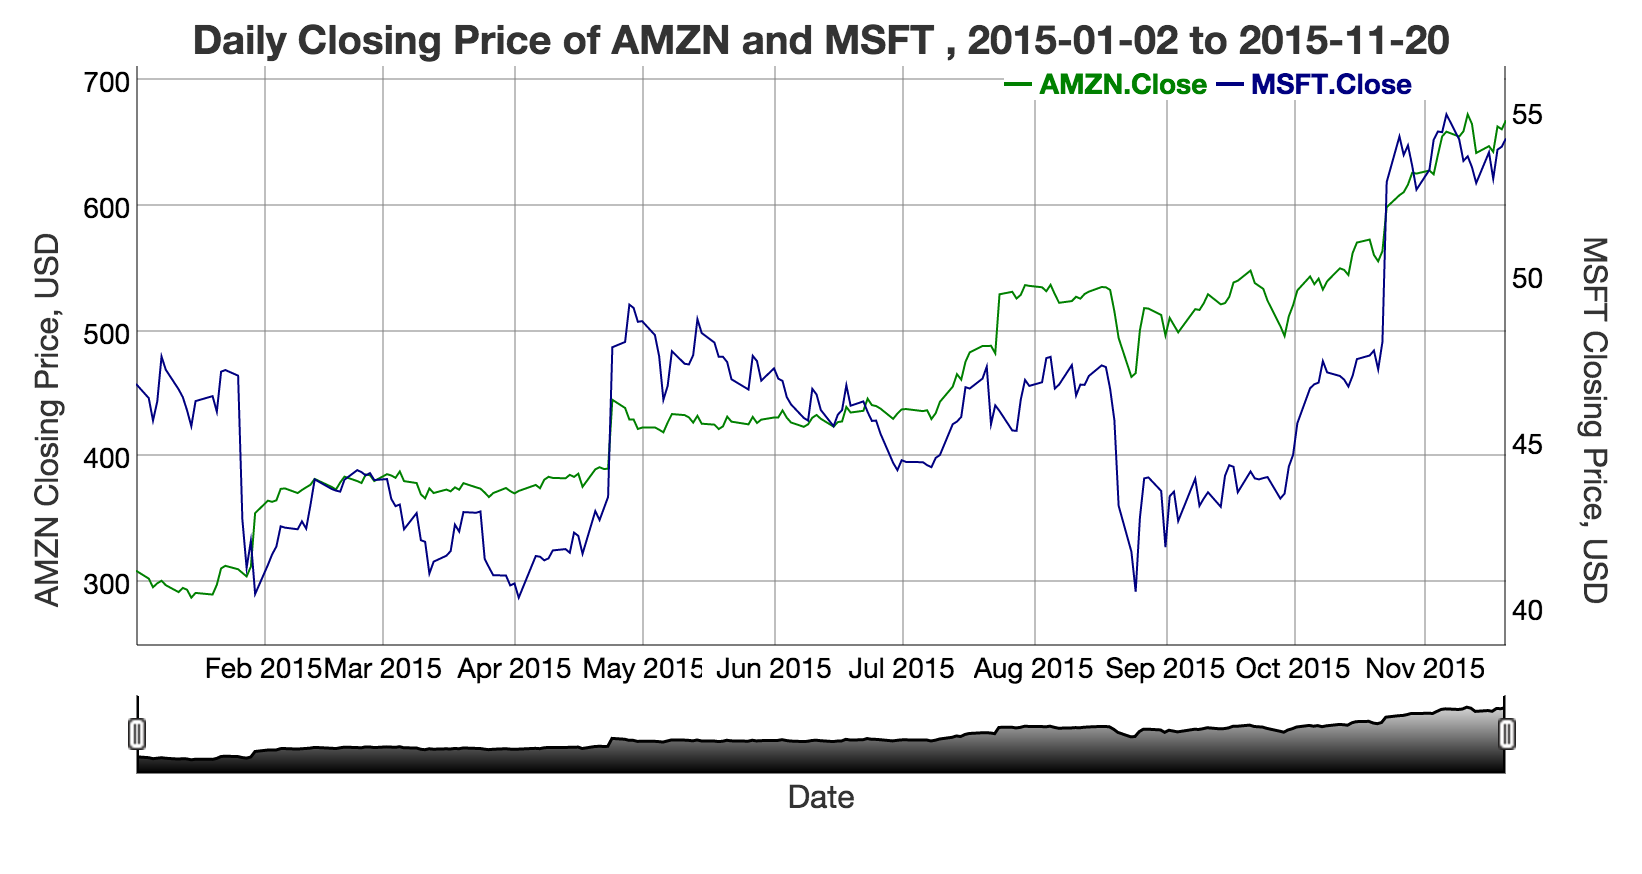
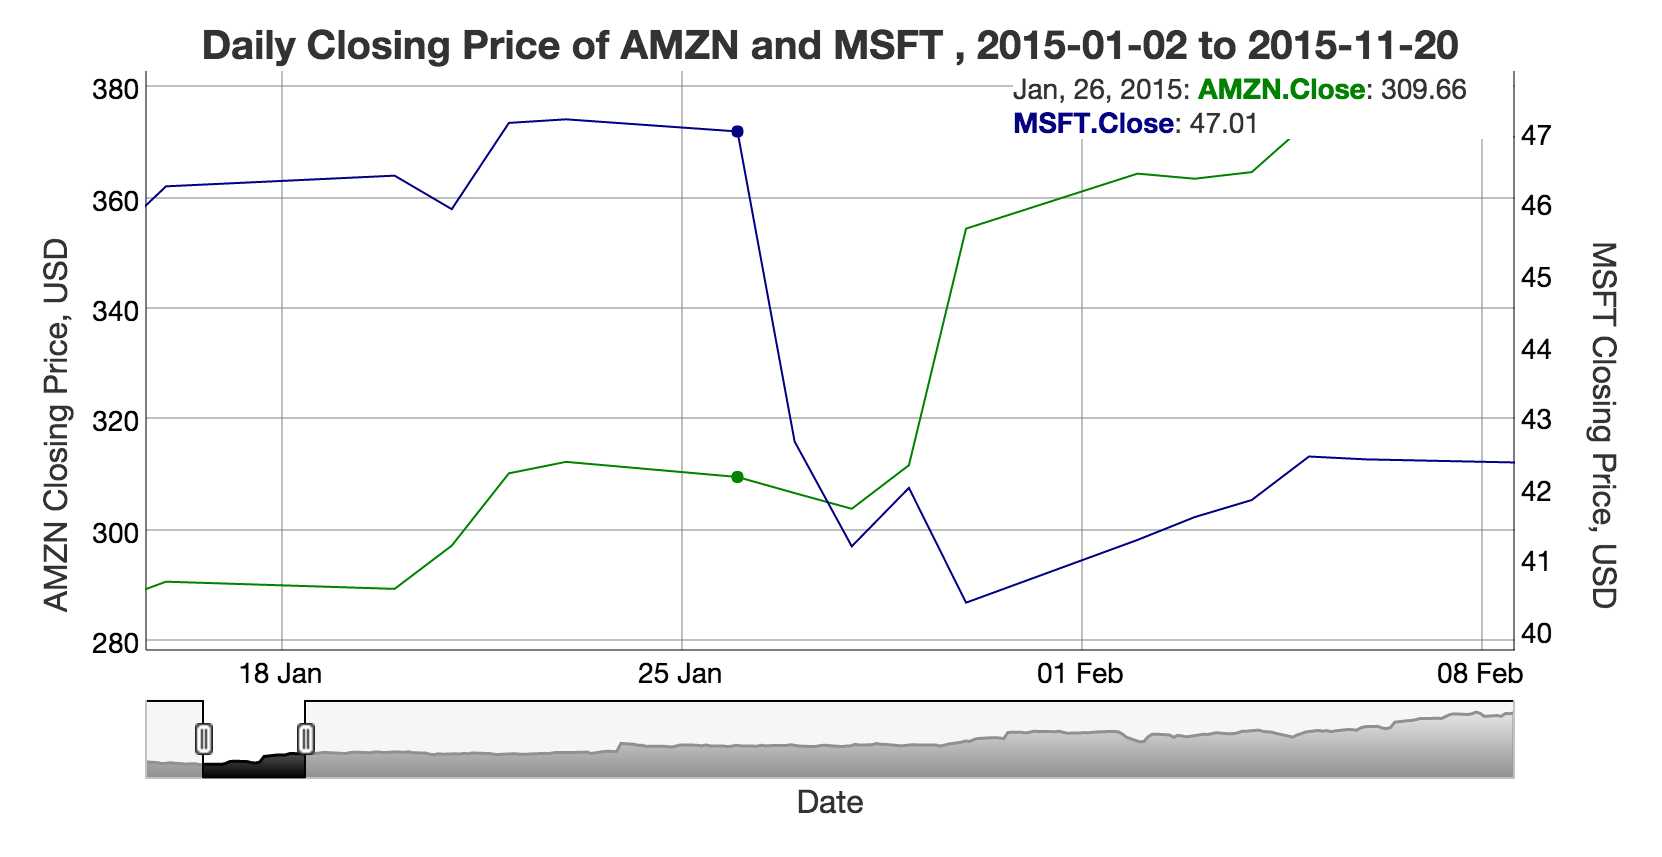
publishing deck

diff --git a/index.html b/index.html
@@ -97,19 +97,19 @@ The above pull returns the following time series (xts) object:</p>
     <h2>Step 2: Powerful graphing of time series objects</h2>
   </hgroup>
   <article data-timings="">
-    <h3>The time series object returned by <code>quantmod</code> is great to work with</h3>
+    <h5>The time series object returned by <code>quantmod</code> is great to work with:</h5>
 
 <ol>
 <li>It&#39;s indexed by date, so jumping to a date range is fast</li>
-<li>It&#39;s very easy to do the following with 1 command, <code>weeklyReturn</code>:
+<li>It&#39;s very easy to do the following 2 steps with 1 command, <code>weeklyReturn</code>:
 
 <ul>
 <li>1-line aggregation by time period (i.e., week, month, year)</li>
-<li>Calculate rate of return</li>
+<li>Calculate rate of return for that time period</li>
 </ul></li>
 </ol>
 
-<h5>The <code>weeklyReturn</code> commmand is behind the following chart:</h5>
+<h5>The <code>weeklyReturn</code> commmand drives the following chart:</h5>
 
 <div style='text-align: center;'>
     <img height='250' src='./assets/img/StockTracker_returns.png' />
@@ -129,11 +129,14 @@ The above pull returns the following time series (xts) object:</p>
 <li>Note a large shift at the end of January 2015</li>
 <li>Zoom in on this time period, using the slider at the bottom of either chart</li>
 <li>Hovering over the chart, we see exact prices and dates. We can discern that MSFT dropped from 47.01 to 40.4 in the same 4-day span that AMZN rose from 309.56 to 354.53.</li>
+<li>Some googling reveals root causes - earning reports were released that week. AMZN jumped on strong earnings, while MSFT fell on declining Windows revenues, and despite strong earnings.</li>
 </ol>
 
-<div style='text-align: left;'>
-    <img height='200' src='./assets/img/StockTracker_graph.png' />
+<div style='text-align: center;'>
+    <img height='220' src='./assets/img/StockTracker_graph.png' />
 </div>
+
+<p></br></p>
 
   </article>
   <!-- Presenter Notes -->

diff --git a/index.md b/index.md
@@ -51,14 +51,14 @@ The above pull returns the following time series (xts) object:
 ---
 ## Step 2: Powerful graphing of time series objects
 
-### The time series object returned by <code>quantmod</code> is great to work with
+##### The time series object returned by <code>quantmod</code> is great to work with:
 
 1. It's indexed by date, so jumping to a date range is fast
-2. It's very easy to do the following with 1 command, <code>weeklyReturn</code>:
+2. It's very easy to do the following 2 steps with 1 command, <code>weeklyReturn</code>:
     + 1-line aggregation by time period (i.e., week, month, year)
-    + Calculate rate of return
+    + Calculate rate of return for that time period
 
-##### The <code>weeklyReturn</code> commmand is behind the following chart:
+##### The <code>weeklyReturn</code> commmand drives the following chart:
     
 <div style='text-align: center;'>
     <img height='250' src='./assets/img/StockTracker_returns.png' />
@@ -71,8 +71,10 @@ The above pull returns the following time series (xts) object:
 2. Note a large shift at the end of January 2015
 3. Zoom in on this time period, using the slider at the bottom of either chart
 4. Hovering over the chart, we see exact prices and dates. We can discern that MSFT dropped from 47.01 to 40.4 in the same 4-day span that AMZN rose from 309.56 to 354.53.
+5. Some googling reveals root causes - earning reports were released that week. AMZN jumped on strong earnings, while MSFT fell on declining Windows revenues, and despite strong earnings.
 
-<div style='text-align: left;'>
-    <img height='200' src='./assets/img/StockTracker_graph.png' />
+<div style='text-align: center;'>
+    <img height='220' src='./assets/img/StockTracker_graph.png' />
 </div>
+</br>
 
